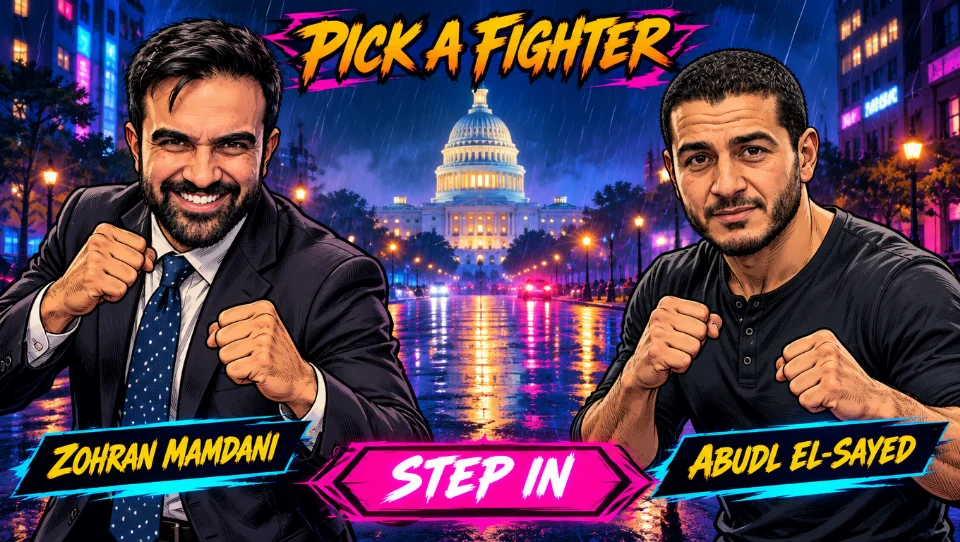
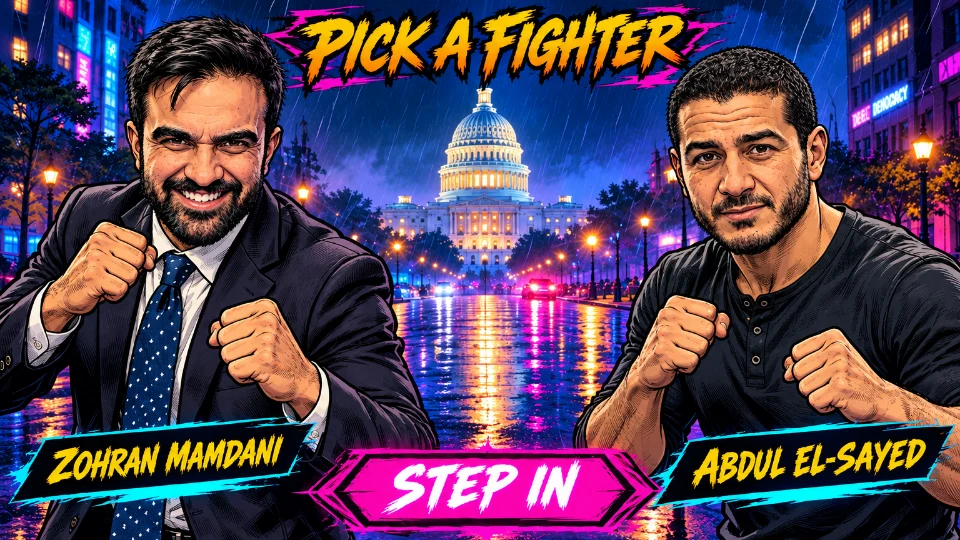
Use the corrected fighter-select screen with Abdul spelled right.
Crop the 3:2 export to 16:9 from the top so every banner stays in frame.

Claude-Session: https://claude.ai/code/session_0173TF9VLC5UENZHycbGdyV7

diff --git a/index.html b/index.html
@@ -46,7 +46,7 @@
       <a class="cab on" href="https://capitolcrashers.com/">
         <div class="marquee"><span>Capitol Crashers</span></div>
         <div class="glass">
-          <img src="art/crashers-select.webp" width="960" height="542" alt="Capitol Crashers fighter select. Zohran Mamdani and Abdul El-Sayed square up on a rainy street in front of the Capitol." />
+          <img src="art/crashers-select.webp" width="960" height="540" alt="Capitol Crashers fighter select. Zohran Mamdani and Abdul El-Sayed square up on a rainy street in front of the Capitol." />
           <div class="scan"></div>
         </div>
         <div class="deck">
